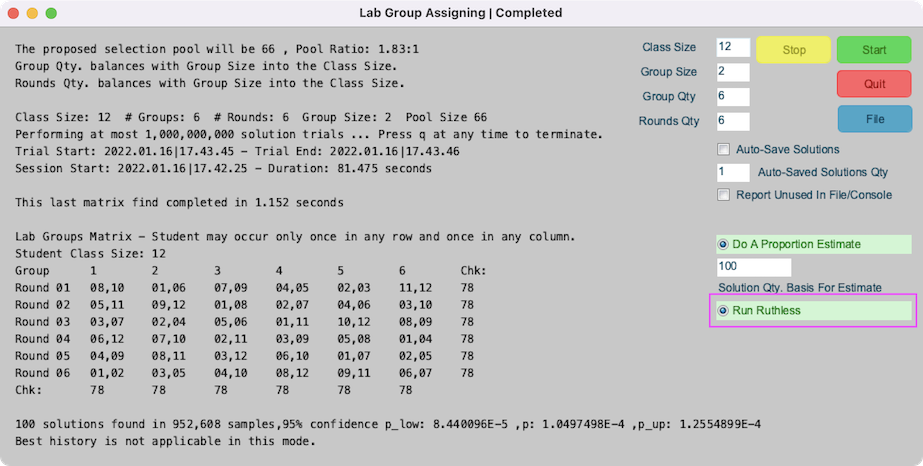
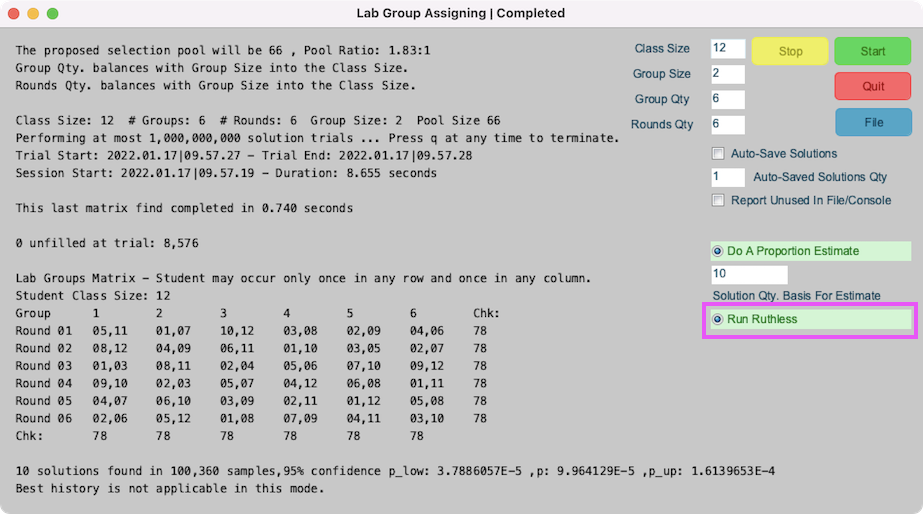
Readme edits

Changed region(s): [[0.0, 0.0, 1.0, 0.8712], [0.0, 0.9013, 0.8494, 0.9614]]

diff --git a/README.md b/README.md
@@ -32,6 +32,8 @@
 
 ![Example Screen Run](./readme-images/LabGroupsAssigning-screen-proportion.png)
 
+* The displayed lab groups matrix and the trial history data always corresponds to the last trial run. In the above image for a proportion estimate session that was to find 100 solution assignments, the last solution found required 941 trial guesses taking 0.112 seconds. The entire session of 100 found solutions required 1,151,365 trial guesses (samples) taking 1.7275 minutes.
+  
 ![Example Screen Run](./readme-images/LabGroupsAssigning-screen-proportion-ruthless.png)
 
 ## Notes
@@ -64,5 +66,5 @@
 * **Window Un-Minimizing (Unhide) on Apple OSX:** Select the running application's icon in the **Dock** to restore the minimized window. The exported **Processing** application for Apple OSX has a simple top menu that lacks **Window** controls used to restore a minimized window one might happen to minimize via the application's **Yellow** control dot. **Command Tab** switching to the application will not resize the minimized application window. This is normal behavior for OSX applications, but OSX applications have the top menu **Window** control where the OS places a restore option for all minimized child windows. As of this writing exported Processing 3 applications lack that control.
 
 ## Console Output
-* This application continuously writes to the console as it runs. The console output is similar to GUI output but captures more information in certain circumstances because the GUI writes over itself faster than what you can notice. The console scrolls instead. The proportion estimate improvement over sample trials is observable in the console. Console output is shown when running the application from a Terminal session. In Linux you run the application from a Terminal session, so you get to see it automatically. Starting the application from a Terminal session in Mac OSX is accomplished by running the LabGroupsAssigning file within a Terminal session. This file is at the folder Contents/MacOS within the MacOSX LabGroupAssigning application package.     
 
+* This application continuously writes to the console as it runs. The console output is similar to GUI output but captures more information in certain circumstances because the GUI writes over itself faster than what you can notice. The console scrolls instead. The proportion estimate improvement over sample trials is observable in the console. Console output is shown when running the application from a Terminal session. In Linux you run the application from a Terminal session, so you get to see it automatically. Starting the application from a Terminal session in Mac OSX is accomplished by running the LabGroupsAssigning file within a Terminal session. This file is at the folder Contents/MacOS within the MacOSX LabGroupAssigning application package.
